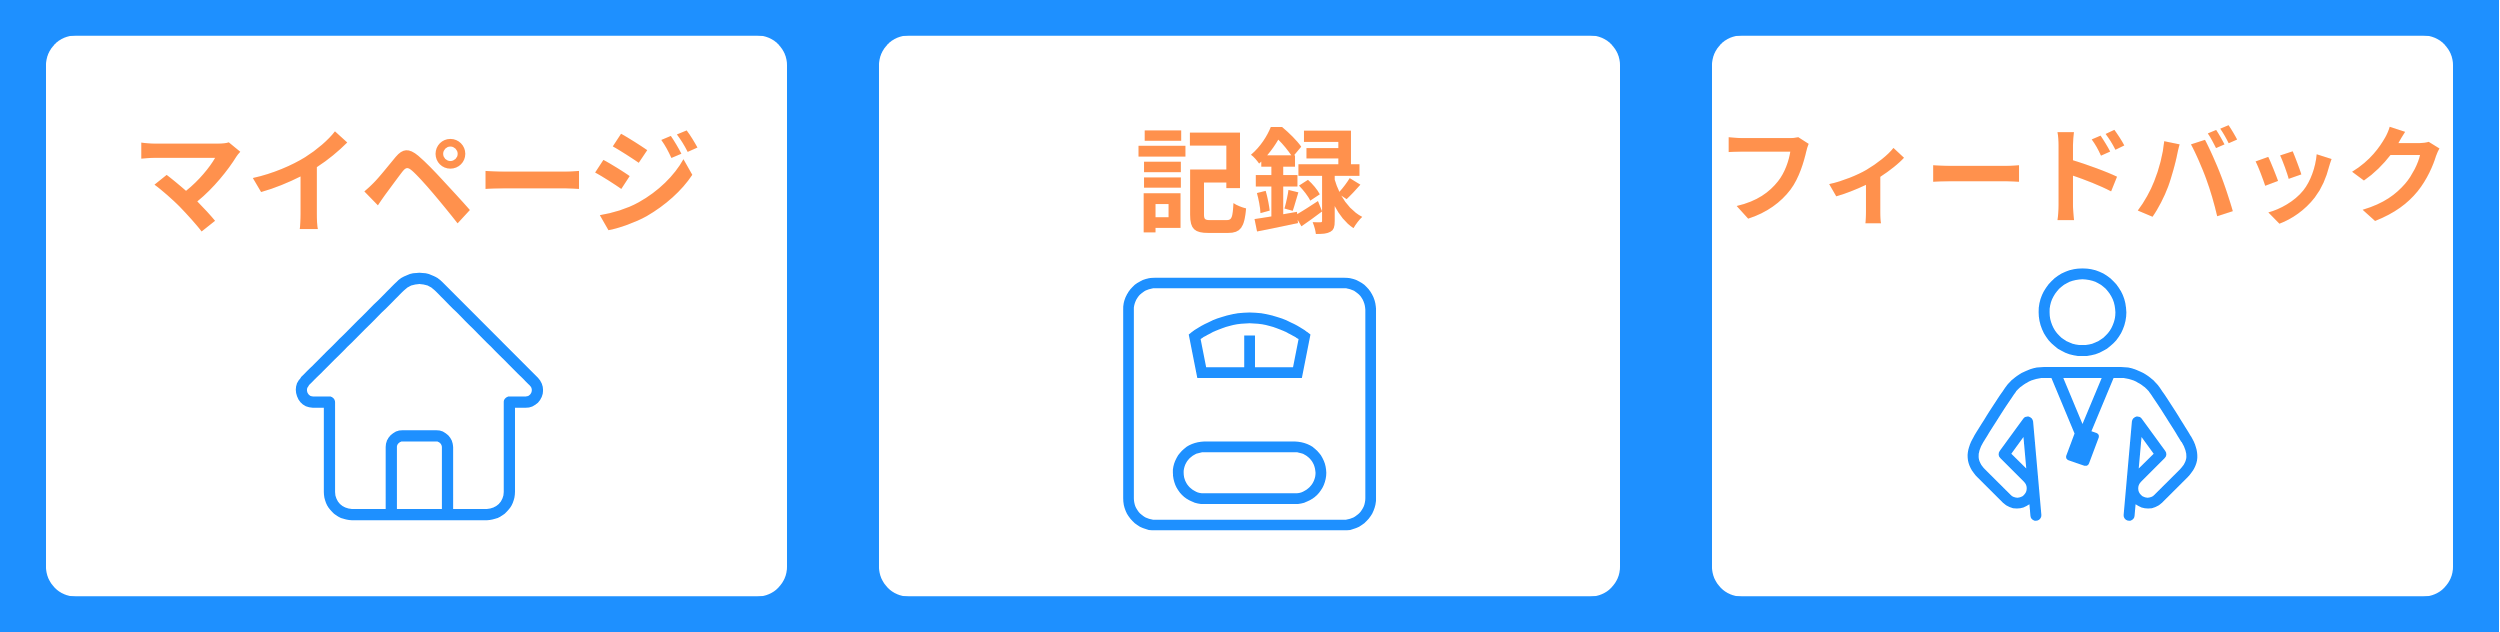
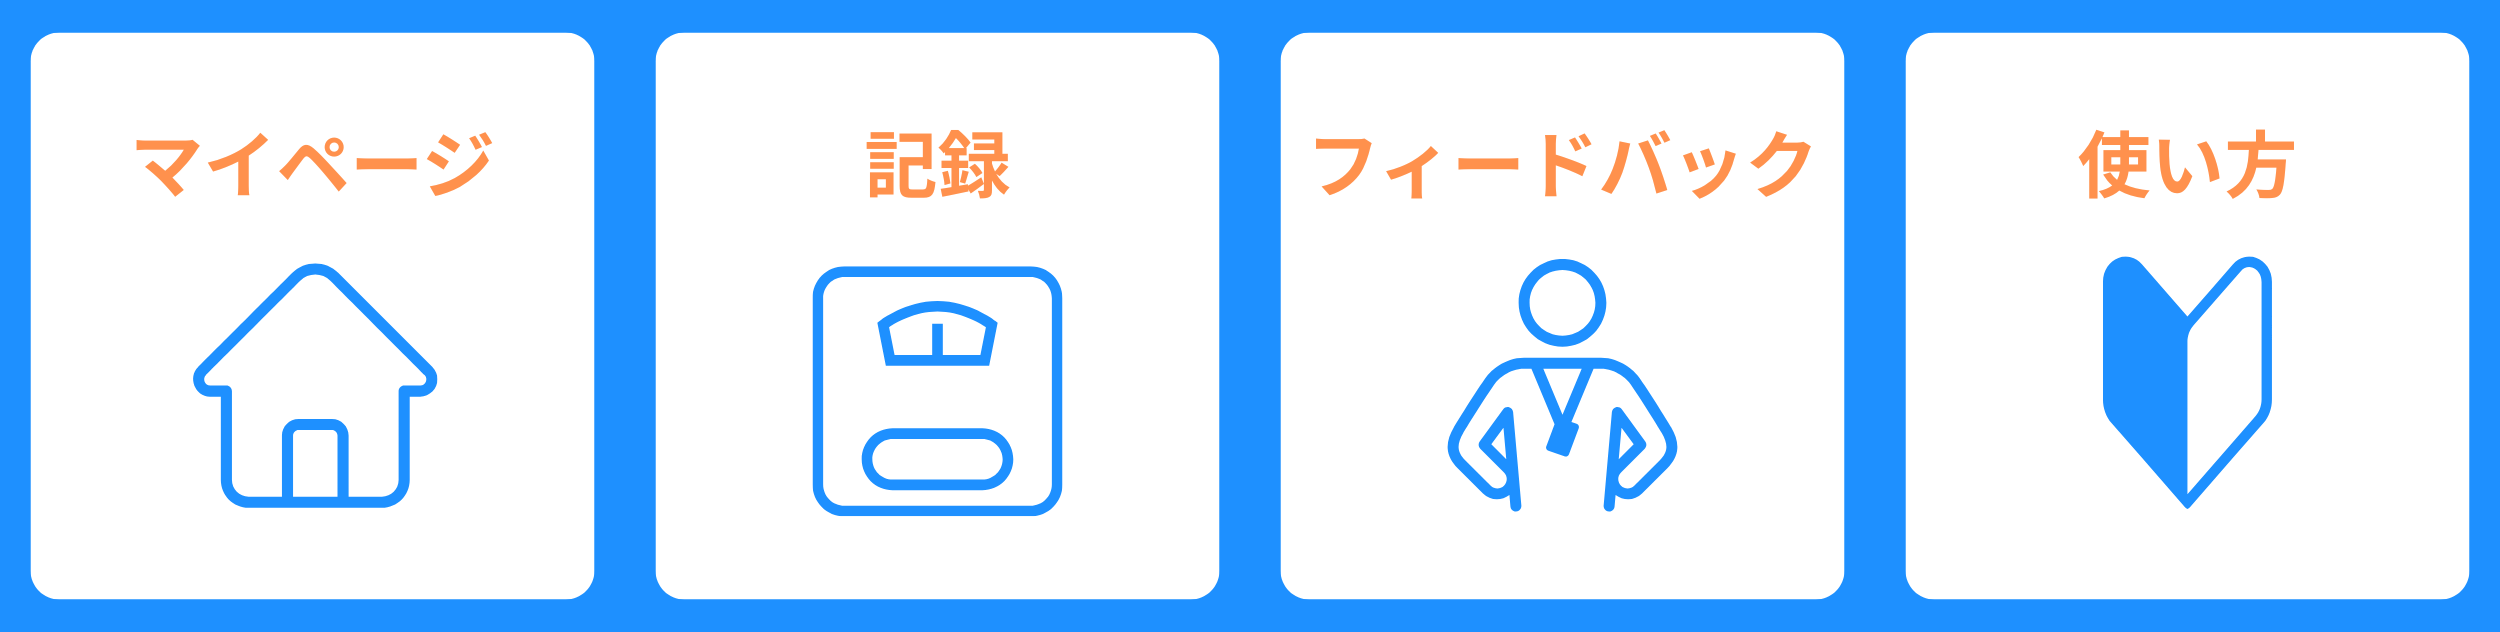
🎨 新しい4ボタンリッチメニュー画像に更新
- /Users/toshimitsukotarou/Downloads/マイページ.zipから4つの画像を正しく結合
- rich-menu-new.pngに正しい4ボタンレイアウト画像を配置
- 既存の設定方式に従って画像ファイルを更新

🤖 Generated with [Claude Code](https://claude.ai/code)

Changed region(s): [[0.0, 0.0, 1.0, 1.0]]

diff --git a/src/app/api/setup-richmenu/route.ts b/src/app/api/setup-richmenu/route.ts
@@ -149,7 +149,7 @@ async function uploadRichMenuImage(accessToken: string, richMenuId: string) {
     // 生成されたPNG画像を読み込み
     const fs = require('fs');
     const path = require('path');
-    const imagePath = path.join(process.cwd(), 'rich-menu-combined.png');
+    const imagePath = path.join(process.cwd(), 'rich-menu-new.png');
     
     let imageBuffer;
     
